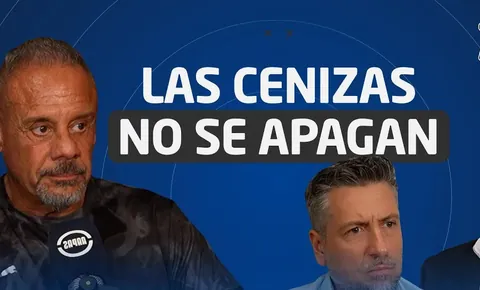
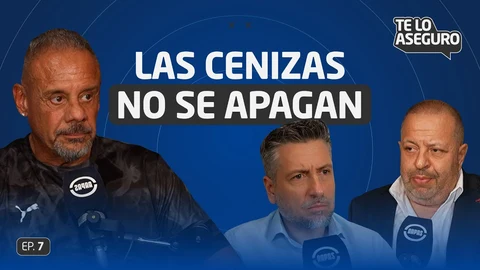
Add Playbook to grid, Polvora Spotify show, Back->previous project
- Playbook now has its own tile in the Audiovisual grid using the
  cover image provided (was previously only reachable via Next).
- Polvora Podcast: swapped the second YouTube video for its real
  Spotify show embed (not a random episode), added camera/mic setup
  and shot-framing credit.
- Confirmed Detras del Puesto and Playbook already embed their full
  Spotify shows, not single episodes.
- La Llamada Fatal's Spotify embeds are full-width/full-height again
  (compact mode is now overridable per-project instead of purely
  automatic).
- Back button now goes to the previous project instead of jumping to
  the projects grid, mirroring Next.
- Re-sourced the Te Lo Aseguro grid tile from the real YouTube
  thumbnail at full 1280x720 (was a cropped, lower-res copy).

diff --git a/index.html b/index.html
@@ -321,11 +321,11 @@
           <a class="tile__link" href="#faiketen" aria-label="View project: Project">
             <div class="tile__media">
               <img class="tile__poster" src="assets/img/te-lo-aseguro-960.webp"
-                   srcset="assets/img/te-lo-aseguro-480.webp 480w, assets/img/te-lo-aseguro-960.webp 960w, assets/img/te-lo-aseguro.webp 983w"
+                   srcset="assets/img/te-lo-aseguro-480.webp 480w, assets/img/te-lo-aseguro-960.webp 960w, assets/img/te-lo-aseguro.webp 1280w"
                    sizes="(max-width: 640px) calc(100vw - 2.5rem), (max-width: 900px) 45vw, 30vw"
-                   width="983" height="593" alt="Show thumbnail: two hosts next to the title Las cenizas no se apagan" loading="lazy" decoding="async">
+                   width="1280" height="720" alt="Show thumbnail: two hosts next to the title Las cenizas no se apagan" loading="lazy" decoding="async">
               <video class="tile__video" data-src="assets/video/reel.mp4" muted loop playsinline preload="none"
-                     width="983" height="593" aria-hidden="true" tabindex="-1"></video>
+                     width="1280" height="720" aria-hidden="true" tabindex="-1"></video>
             </div>
             <div class="tile__meta">
               <div>
@@ -368,6 +368,25 @@
             <div class="tile__meta">
               <div>
                 <h2 class="tile__title">Polvora Podcast</h2>
+                
+              </div>
+              <svg class="tile__arrow" viewBox="0 0 24 24" fill="none" stroke="currentColor" stroke-width="1.5" stroke-linecap="round" stroke-linejoin="round" aria-hidden="true"><path d="M7 17 17 7M9 7h8v8"/></svg>
+            </div>
+          </a>
+        </article>
+        <article class="tile reveal" data-delay="2">
+          <a class="tile__link" href="#playbook" aria-label="View project: Playbook">
+            <div class="tile__media">
+              <img class="tile__poster" src="assets/img/playbook-960.webp"
+                   srcset="assets/img/playbook-480.webp 480w, assets/img/playbook-960.webp 960w, assets/img/playbook.webp 640w"
+                   sizes="(max-width: 640px) calc(100vw - 2.5rem), (max-width: 900px) 45vw, 30vw"
+                   width="640" height="640" alt="Playbook cover: x Anita y Sebas, black background, marketing para marketers" loading="lazy" decoding="async">
+              <video class="tile__video" data-src="assets/video/reel.mp4" muted loop playsinline preload="none"
+                     width="640" height="640" aria-hidden="true" tabindex="-1"></video>
+            </div>
+            <div class="tile__meta">
+              <div>
+                <h2 class="tile__title">Playbook</h2>
                 
               </div>
               <svg class="tile__arrow" viewBox="0 0 24 24" fill="none" stroke="currentColor" stroke-width="1.5" stroke-linecap="round" stroke-linejoin="round" aria-hidden="true"><path d="M7 17 17 7M9 7h8v8"/></svg>
@@ -478,9 +497,9 @@
           </div>
 
           <div class="project__actions">
-            <!-- Vuelve directo a la grilla de proyectos, sin pasar por el
-                 reel/carrusel de arriba. -->
-            <a class="btn" href="#projects"><svg viewBox="0 0 24 24" fill="none" stroke="currentColor" stroke-width="1.5" stroke-linecap="round" stroke-linejoin="round" aria-hidden="true"><path d="M19 12H5M12 19l-7-7 7-7"/></svg><span>Back</span></a>
+            <!-- Lleva al proyecto anterior de la lista (el primero vuelve
+                 al ultimo) -- ya no vuelve a la grilla de #projects. -->
+            <a class="btn" href="#playbook"><svg viewBox="0 0 24 24" fill="none" stroke="currentColor" stroke-width="1.5" stroke-linecap="round" stroke-linejoin="round" aria-hidden="true"><path d="M19 12H5M12 19l-7-7 7-7"/></svg><span>Back</span></a>
             <!-- Lleva al siguiente proyecto de la lista (el ultimo vuelve
                  al primero). -->
             <a class="btn" href="#lumia">
@@ -527,9 +546,9 @@
           </div>
 
           <div class="project__actions">
-            <!-- Vuelve directo a la grilla de proyectos, sin pasar por el
-                 reel/carrusel de arriba. -->
-            <a class="btn" href="#projects"><svg viewBox="0 0 24 24" fill="none" stroke="currentColor" stroke-width="1.5" stroke-linecap="round" stroke-linejoin="round" aria-hidden="true"><path d="M19 12H5M12 19l-7-7 7-7"/></svg><span>Back</span></a>
+            <!-- Lleva al proyecto anterior de la lista (el primero vuelve
+                 al ultimo) -- ya no vuelve a la grilla de #projects. -->
+            <a class="btn" href="#thecarboncase"><svg viewBox="0 0 24 24" fill="none" stroke="currentColor" stroke-width="1.5" stroke-linecap="round" stroke-linejoin="round" aria-hidden="true"><path d="M19 12H5M12 19l-7-7 7-7"/></svg><span>Back</span></a>
             <!-- Lleva al siguiente proyecto de la lista (el ultimo vuelve
                  al primero). -->
             <a class="btn" href="#redbull">
@@ -581,9 +600,9 @@
           </div>
 
           <div class="project__actions">
-            <!-- Vuelve directo a la grilla de proyectos, sin pasar por el
-                 reel/carrusel de arriba. -->
-            <a class="btn" href="#projects"><svg viewBox="0 0 24 24" fill="none" stroke="currentColor" stroke-width="1.5" stroke-linecap="round" stroke-linejoin="round" aria-hidden="true"><path d="M19 12H5M12 19l-7-7 7-7"/></svg><span>Back</span></a>
+            <!-- Lleva al proyecto anterior de la lista (el primero vuelve
+                 al ultimo) -- ya no vuelve a la grilla de #projects. -->
+            <a class="btn" href="#lumia"><svg viewBox="0 0 24 24" fill="none" stroke="currentColor" stroke-width="1.5" stroke-linecap="round" stroke-linejoin="round" aria-hidden="true"><path d="M19 12H5M12 19l-7-7 7-7"/></svg><span>Back</span></a>
             <!-- Lleva al siguiente proyecto de la lista (el ultimo vuelve
                  al primero). -->
             <a class="btn" href="#lallamada">
@@ -604,20 +623,20 @@
     <section class="page" id="lallamada" data-title="La Llamada Fatal" hidden>
       <div class="wrap page__body">
         <div class="project">
-        <div class="project__media reveal" style="max-width:70%;margin-inline:auto">
-          <div class="embed embed--audio embed--audio--compact">
+        <div class="project__media reveal">
+          <div class="embed embed--audio">
             <iframe src="https://open.spotify.com/embed/episode/3gu56XUbJWXSjcrw7pOc3g?utm_source=generator&amp;theme=0"
-                    title="La Llamada Fatal — episode on Spotify" loading="lazy" width="100%" height="152" frameborder="0"
+                    title="La Llamada Fatal — episode on Spotify" loading="lazy" width="100%" height="352" frameborder="0"
                     allow="autoplay; clipboard-write; encrypted-media; fullscreen; picture-in-picture"></iframe>
           </div>
-          <div class="embed embed--audio embed--audio--compact">
+          <div class="embed embed--audio">
             <iframe src="https://open.spotify.com/embed/episode/5DJchpRlyf3DZMsiWbYLJX?utm_source=generator&amp;theme=0"
-                    title="La Llamada Fatal — second episode on Spotify" loading="lazy" width="100%" height="152" frameborder="0"
+                    title="La Llamada Fatal — second episode on Spotify" loading="lazy" width="100%" height="352" frameborder="0"
                     allow="autoplay; clipboard-write; encrypted-media; fullscreen; picture-in-picture"></iframe>
           </div>
-          <div class="embed embed--audio embed--audio--compact">
+          <div class="embed embed--audio">
             <iframe src="https://open.spotify.com/embed/episode/6qlD3El6SVTRuBnmR348g3?utm_source=generator&amp;theme=0"
-                    title="La Llamada Fatal — third episode on Spotify" loading="lazy" width="100%" height="152" frameborder="0"
+                    title="La Llamada Fatal — third episode on Spotify" loading="lazy" width="100%" height="352" frameborder="0"
                     allow="autoplay; clipboard-write; encrypted-media; fullscreen; picture-in-picture"></iframe>
           </div>
         </div>
@@ -639,9 +658,9 @@
           </div>
 
           <div class="project__actions">
-            <!-- Vuelve directo a la grilla de proyectos, sin pasar por el
-                 reel/carrusel de arriba. -->
-            <a class="btn" href="#projects"><svg viewBox="0 0 24 24" fill="none" stroke="currentColor" stroke-width="1.5" stroke-linecap="round" stroke-linejoin="round" aria-hidden="true"><path d="M19 12H5M12 19l-7-7 7-7"/></svg><span>Back</span></a>
+            <!-- Lleva al proyecto anterior de la lista (el primero vuelve
+                 al ultimo) -- ya no vuelve a la grilla de #projects. -->
+            <a class="btn" href="#redbull"><svg viewBox="0 0 24 24" fill="none" stroke="currentColor" stroke-width="1.5" stroke-linecap="round" stroke-linejoin="round" aria-hidden="true"><path d="M19 12H5M12 19l-7-7 7-7"/></svg><span>Back</span></a>
             <!-- Lleva al siguiente proyecto de la lista (el ultimo vuelve
                  al primero). -->
             <a class="btn" href="#ddp">
@@ -693,9 +712,9 @@
           </div>
 
           <div class="project__actions">
-            <!-- Vuelve directo a la grilla de proyectos, sin pasar por el
-                 reel/carrusel de arriba. -->
-            <a class="btn" href="#projects"><svg viewBox="0 0 24 24" fill="none" stroke="currentColor" stroke-width="1.5" stroke-linecap="round" stroke-linejoin="round" aria-hidden="true"><path d="M19 12H5M12 19l-7-7 7-7"/></svg><span>Back</span></a>
+            <!-- Lleva al proyecto anterior de la lista (el primero vuelve
+                 al ultimo) -- ya no vuelve a la grilla de #projects. -->
+            <a class="btn" href="#lallamada"><svg viewBox="0 0 24 24" fill="none" stroke="currentColor" stroke-width="1.5" stroke-linecap="round" stroke-linejoin="round" aria-hidden="true"><path d="M19 12H5M12 19l-7-7 7-7"/></svg><span>Back</span></a>
             <!-- Lleva al siguiente proyecto de la lista (el ultimo vuelve
                  al primero). -->
             <a class="btn" href="#faiketen">
@@ -741,9 +760,9 @@
           </div>
 
           <div class="project__actions">
-            <!-- Vuelve directo a la grilla de proyectos, sin pasar por el
-                 reel/carrusel de arriba. -->
-            <a class="btn" href="#projects"><svg viewBox="0 0 24 24" fill="none" stroke="currentColor" stroke-width="1.5" stroke-linecap="round" stroke-linejoin="round" aria-hidden="true"><path d="M19 12H5M12 19l-7-7 7-7"/></svg><span>Back</span></a>
+            <!-- Lleva al proyecto anterior de la lista (el primero vuelve
+                 al ultimo) -- ya no vuelve a la grilla de #projects. -->
+            <a class="btn" href="#ddp"><svg viewBox="0 0 24 24" fill="none" stroke="currentColor" stroke-width="1.5" stroke-linecap="round" stroke-linejoin="round" aria-hidden="true"><path d="M19 12H5M12 19l-7-7 7-7"/></svg><span>Back</span></a>
             <!-- Lleva al siguiente proyecto de la lista (el ultimo vuelve
                  al primero). -->
             <a class="btn" href="#reports">
@@ -789,9 +808,9 @@
           </div>
 
           <div class="project__actions">
-            <!-- Vuelve directo a la grilla de proyectos, sin pasar por el
-                 reel/carrusel de arriba. -->
-            <a class="btn" href="#projects"><svg viewBox="0 0 24 24" fill="none" stroke="currentColor" stroke-width="1.5" stroke-linecap="round" stroke-linejoin="round" aria-hidden="true"><path d="M19 12H5M12 19l-7-7 7-7"/></svg><span>Back</span></a>
+            <!-- Lleva al proyecto anterior de la lista (el primero vuelve
+                 al ultimo) -- ya no vuelve a la grilla de #projects. -->
+            <a class="btn" href="#faiketen"><svg viewBox="0 0 24 24" fill="none" stroke="currentColor" stroke-width="1.5" stroke-linecap="round" stroke-linejoin="round" aria-hidden="true"><path d="M19 12H5M12 19l-7-7 7-7"/></svg><span>Back</span></a>
             <!-- Lleva al siguiente proyecto de la lista (el ultimo vuelve
                  al primero). -->
             <a class="btn" href="#juleriaque">
@@ -873,9 +892,9 @@
           </div>
 
           <div class="project__actions">
-            <!-- Vuelve directo a la grilla de proyectos, sin pasar por el
-                 reel/carrusel de arriba. -->
-            <a class="btn" href="#projects"><svg viewBox="0 0 24 24" fill="none" stroke="currentColor" stroke-width="1.5" stroke-linecap="round" stroke-linejoin="round" aria-hidden="true"><path d="M19 12H5M12 19l-7-7 7-7"/></svg><span>Back</span></a>
+            <!-- Lleva al proyecto anterior de la lista (el primero vuelve
+                 al ultimo) -- ya no vuelve a la grilla de #projects. -->
+            <a class="btn" href="#reports"><svg viewBox="0 0 24 24" fill="none" stroke="currentColor" stroke-width="1.5" stroke-linecap="round" stroke-linejoin="round" aria-hidden="true"><path d="M19 12H5M12 19l-7-7 7-7"/></svg><span>Back</span></a>
             <!-- Lleva al siguiente proyecto de la lista (el ultimo vuelve
                  al primero). -->
             <a class="btn" href="#section12">
@@ -903,33 +922,32 @@
                     allow="accelerometer; clipboard-write; encrypted-media; gyroscope; picture-in-picture; web-share"
                     referrerpolicy="strict-origin-when-cross-origin" allowfullscreen></iframe>
           </div>
-          <div class="embed">
-            <iframe src="https://www.youtube.com/embed/XWi0vnR9PGU?rel=0&amp;loop=0&amp;controls=1&amp;cc_load_policy=0"
-                    title="Polvora Podcast — second project video" loading="lazy"
-                    allow="accelerometer; clipboard-write; encrypted-media; gyroscope; picture-in-picture; web-share"
-                    referrerpolicy="strict-origin-when-cross-origin" allowfullscreen></iframe>
+          <div class="embed embed--audio">
+            <iframe src="https://open.spotify.com/embed/show/7qKLmqCDiLx8MiRMFqTLMv?utm_source=generator&amp;theme=0"
+                    title="Polvora Podcast — Spotify show" loading="lazy" width="100%" height="352" frameborder="0"
+                    allow="autoplay; clipboard-write; encrypted-media; fullscreen; picture-in-picture"></iframe>
           </div>
         </div>
 
         <div class="project__info reveal" data-delay="1">
           <h1 class="project__title">Polvora Podcast</h1>
-          <p class="project__role">Video editing</p>
+          <p class="project__role">Camera &amp; Mic Setup, Video Editing</p>
 
           <div class="project__text">
             <div class="lang">
               <p class="label lang__label">ESP</p>
-              <p class="prose" lang="es">Polvora Podcast, conducido por Julieta Kemble, es un espacio de conversación sobre bienestar, hábitos y decisiones cotidianas, con invitados que aportan su mirada desde la nutrición, la salud y el desarrollo personal. Estuve a cargo de la edición de video completa de la serie: selección de planos, ritmo de corte y coherencia visual de cada episodio.</p>
+              <p class="prose" lang="es">Polvora Podcast, conducido por Julieta Kemble, es un espacio de conversación sobre bienestar, hábitos y decisiones cotidianas, con invitados que aportan su mirada desde la nutrición, la salud y el desarrollo personal. Estuve a cargo del setup de cámaras y micrófonos, el encuadre de cada toma y la edición de video completa de la serie: selección de planos, ritmo de corte y coherencia visual de cada episodio.</p>
             </div>
             <div class="lang">
               <p class="label lang__label">ENG</p>
-              <p class="prose">Polvora Podcast, hosted by Julieta Kemble, is a conversation series about wellbeing, habits, and everyday decisions, with guests bringing perspective from nutrition, health, and personal development. I handled the series&#39; full video edit: shot selection, cutting rhythm, and visual consistency across every episode.</p>
+              <p class="prose">Polvora Podcast, hosted by Julieta Kemble, is a conversation series about wellbeing, habits, and everyday decisions, with guests bringing perspective from nutrition, health, and personal development. I handled the camera and microphone setup, the framing for every shot, and the series&#39; full video edit: shot selection, cutting rhythm, and visual consistency across every episode.</p>
             </div>
           </div>
 
           <div class="project__actions">
-            <!-- Vuelve directo a la grilla de proyectos, sin pasar por el
-                 reel/carrusel de arriba. -->
-            <a class="btn" href="#projects"><svg viewBox="0 0 24 24" fill="none" stroke="currentColor" stroke-width="1.5" stroke-linecap="round" stroke-linejoin="round" aria-hidden="true"><path d="M19 12H5M12 19l-7-7 7-7"/></svg><span>Back</span></a>
+            <!-- Lleva al proyecto anterior de la lista (el primero vuelve
+                 al ultimo) -- ya no vuelve a la grilla de #projects. -->
+            <a class="btn" href="#juleriaque"><svg viewBox="0 0 24 24" fill="none" stroke="currentColor" stroke-width="1.5" stroke-linecap="round" stroke-linejoin="round" aria-hidden="true"><path d="M19 12H5M12 19l-7-7 7-7"/></svg><span>Back</span></a>
             <!-- Lleva al siguiente proyecto de la lista (el ultimo vuelve
                  al primero). -->
             <a class="btn" href="#playbook">
@@ -980,9 +998,9 @@
           </div>
 
           <div class="project__actions">
-            <!-- Vuelve directo a la grilla de proyectos, sin pasar por el
-                 reel/carrusel de arriba. -->
-            <a class="btn" href="#projects"><svg viewBox="0 0 24 24" fill="none" stroke="currentColor" stroke-width="1.5" stroke-linecap="round" stroke-linejoin="round" aria-hidden="true"><path d="M19 12H5M12 19l-7-7 7-7"/></svg><span>Back</span></a>
+            <!-- Lleva al proyecto anterior de la lista (el primero vuelve
+                 al ultimo) -- ya no vuelve a la grilla de #projects. -->
+            <a class="btn" href="#section12"><svg viewBox="0 0 24 24" fill="none" stroke="currentColor" stroke-width="1.5" stroke-linecap="round" stroke-linejoin="round" aria-hidden="true"><path d="M19 12H5M12 19l-7-7 7-7"/></svg><span>Back</span></a>
             <!-- Lleva al siguiente proyecto de la lista (el ultimo vuelve
                  al primero). -->
             <a class="btn" href="#thecarboncase">

diff --git a/README.md b/README.md
@@ -1290,13 +1290,9 @@ Figueiredo y Sebastián Paschmann, para que otros marketers repiensen
 su trabajo con estrategia) y escribí el texto en base a eso. Le
 adjunté el video de YouTube que me pasaste arriba del embed del
 programa completo de Spotify, y sumé que hiciste la edición de video
-usando los elementos gráficos propios del programa. **Ojo: todavía no
-aparece en la grilla de Audiovisual** — me falta la imagen de tapa
-que me describiste (fondo negro, "x Anita y Sebas" / "Playbook" /
-"marketing para marketers") y no tengo forma de bajarla yo mismo
-desde acá, no tengo acceso real a internet en este entorno. Mandame
-ese archivo de imagen y lo agrego a la grilla. Mientras tanto, la
-página ya existe y se llega apretando "Next" desde Polvora Podcast.
+usando los elementos gráficos propios del programa. (La imagen de
+tapa para la grilla de Audiovisual llegó después — ver la entrada
+110 más abajo.)
 
 **108. Saqué el proyecto Koupe por completo** (página, tarjeta de la
 grilla de Sound y todo) — quedan 9 proyectos más Playbook, 10 en
@@ -1319,3 +1315,60 @@ que el spinner se ve mientras no hay datos, y que desaparece solo en
 cuanto el video puede reproducirse — nunca más la imagen esa. Borré
 también el archivo de esa imagen (`reel-poster.webp`), que ya no lo
 usa nadie.
+
+**110. Playbook ya aparece en la grilla de Audiovisual.** Me mandaste
+la imagen de tapa (fondo negro, "Anita & Sebas" en la etiqueta
+amarilla, "PLAYBOOK" en blanco, "Presentado por Proteína." abajo) y
+la sumé al sitio en los tres tamaños de siempre (480 / 960 / tamaño
+completo). Ya no hace falta entrar por "Next" desde Polvora
+Podcast — está en su lugar en la grilla, como los demás proyectos.
+
+**111. Polvora Podcast: el segundo video de YouTube ahora es su show
+de Spotify.** Busqué su perfil real (lo conduce Julieta Kemble,
+confirmado) y en vez de dejar un episodio suelto al azar, embebí el
+show completo — así se puede ver y elegir entre todos los episodios
+sin salir de tu página, igual que en Detrás del Puesto y Playbook.
+También sumé el crédito que pediste, tanto en el rol de arriba como
+en el texto: el setup de cámaras y micrófonos, y el encuadre de cada
+toma.
+
+**112. Detrás del Puesto y Playbook: confirmado, ninguno de los dos
+apunta a un episodio al azar de Spotify.** Los dos ya usaban el
+embed del show completo desde la vez pasada, no un episodio
+puntual — no hacía falta tocar nada ahí, quedan como estaban.
+
+**113. La Llamada Fatal: los embeds de Spotify vuelven a ocupar todo
+el ancho y alto normal del contenedor.** La vez pasada los había
+achicado (152px de alto, 70% del ancho) porque son 3 y la página se
+hacía muy larga — ahora, a pedido tuyo, los agrandé de nuevo al
+tamaño normal (352px, ancho completo), aunque eso haga la página más
+larga otra vez. El resto de los proyectos con más de 2 videos/embeds
+se sigue achicando automático como antes (esa regla general sigue
+funcionando); le agregué al código una excepción puntual para este
+proyecto nada más.
+
+**114. El botón "Back" en la página de un proyecto ahora te lleva al
+proyecto anterior, no a la grilla.** Antes, sin importar en qué
+proyecto estuvieras, "Back" te mandaba siempre a la sección de todos
+los proyectos. Ahora hace lo mismo que "Next" pero al revés: te
+lleva al proyecto anterior de la lista (y el primero de todos vuelve
+al último, dando toda la vuelta). Si en algún momento preferís que
+vuelva a ir directo a la grilla, decime y lo cambio de nuevo.
+
+**115. Sobre las thumbnails de YouTube "pixeladas de vuelta": encontré
+una y la mejoré, la otra ya está al máximo posible.** Investigué las
+dos tarjetas de la grilla que parecen sacadas de un video real (no un
+logo diseñado): "Te Lo Aseguro" y "Polvora Podcast".
+- **Te Lo Aseguro** sí tenía margen de mejora: la imagen que estaba
+  usando era una versión recortada y de menor resolución (983×593)
+  de la miniatura real del episodio. La reemplacé por la miniatura
+  oficial de YouTube en su resolución máxima (1280×720, la misma
+  imagen pero completa y más nítida) — ya se ve mejor, sobre todo en
+  pantallas grandes o de alta densidad de píxeles.
+- **Polvora Podcast** ya estaba usando exactamente esa misma
+  miniatura oficial, también al máximo que ofrece YouTube para ese
+  video (1280×720) — no existe una versión de mayor resolución para
+  sacar de ahí, así que no hay margen para mejorarla desde el código.
+  Si en algún momento conseguís una foto de mayor calidad (por
+  ejemplo la que hayan usado internamente antes de subirla a
+  YouTube), mandámela y la reemplazo.
